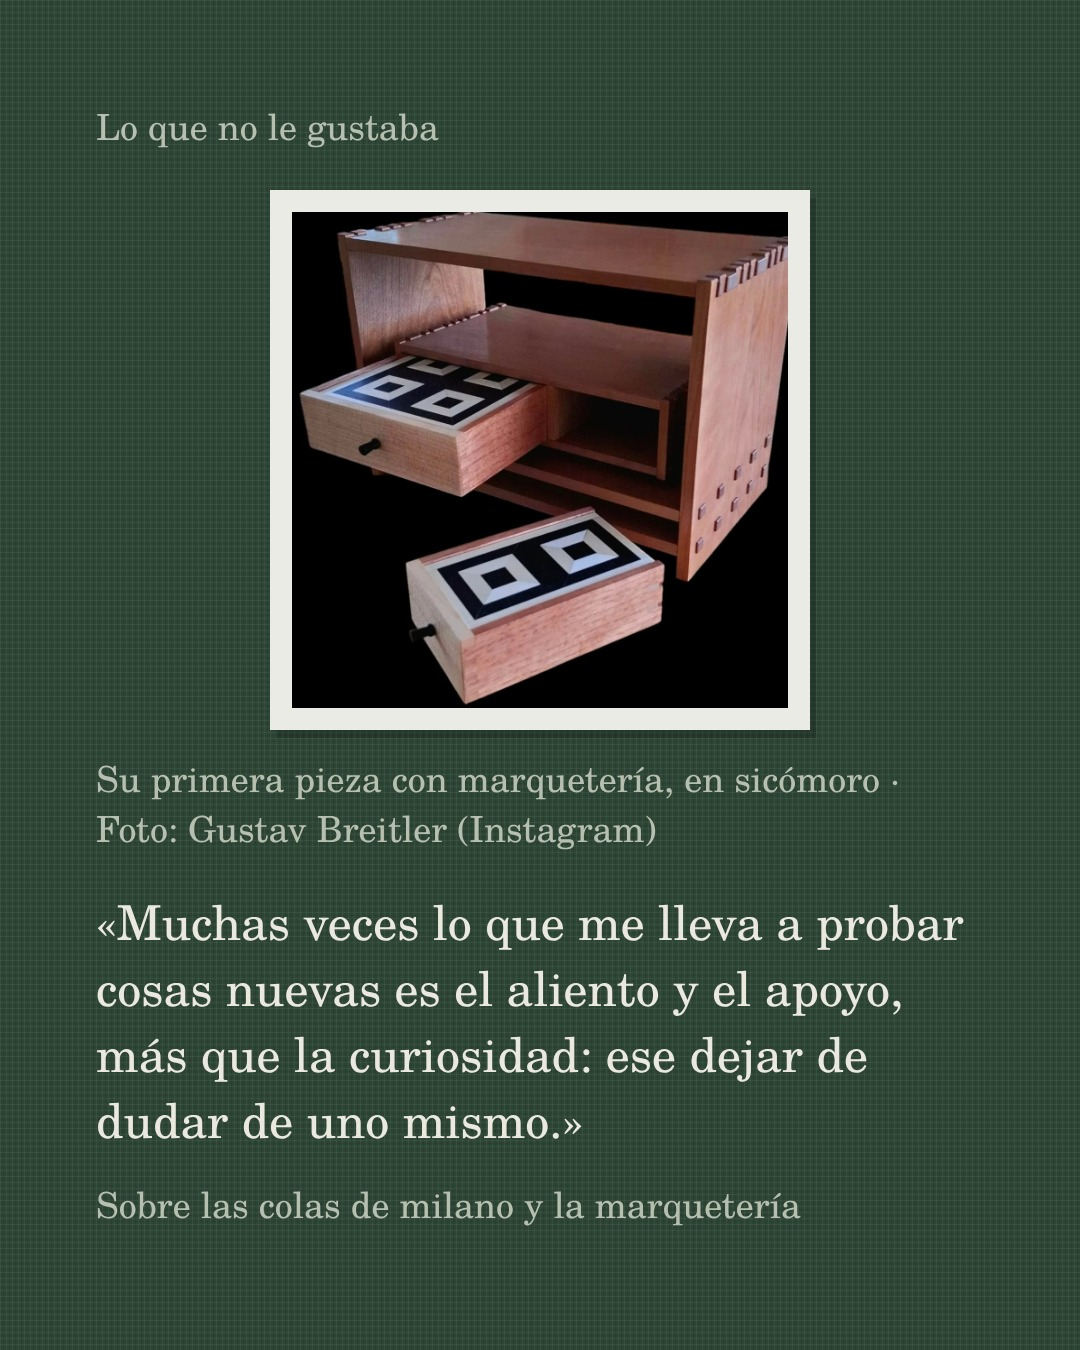
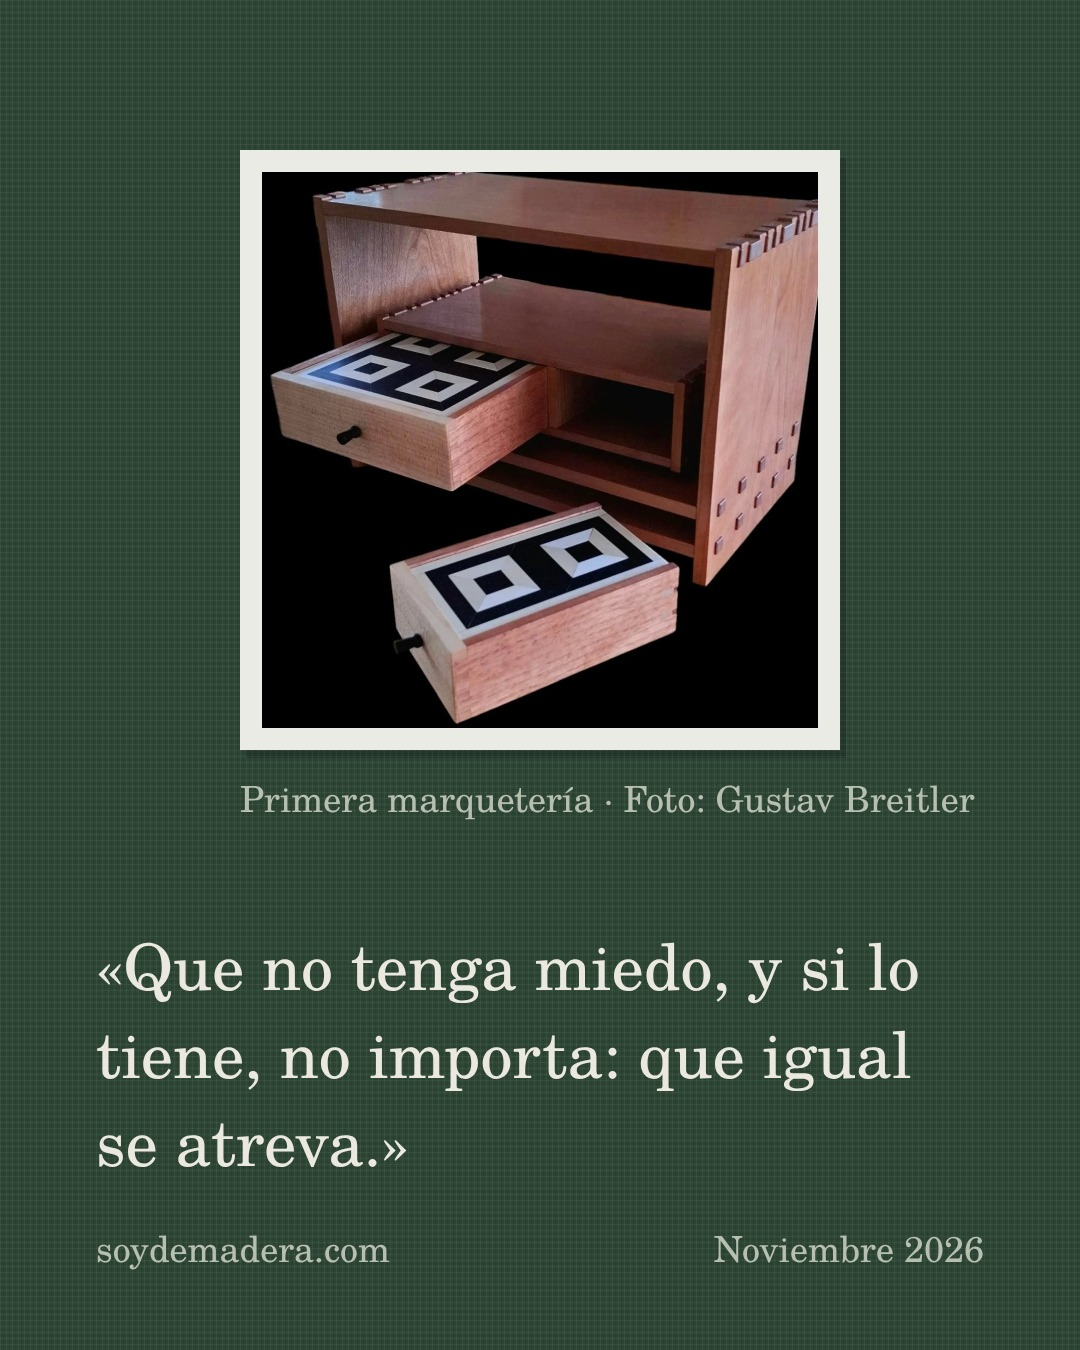
Carrusel de Gustav: textos breves (una cita corta por lámina) y cierre simple
Claude-Session: https://claude.ai/code/session_012RZ1FT6M2ATF6VWer3zUHn

Changed region(s): [[0.0917, 0.0933, 0.8861, 0.6222], [0.0917, 0.6533, 0.9167, 0.9333], [0.0917, 0.0933, 0.1833, 0.1244]]

diff --git a/carrusel-gustav/index.html b/carrusel-gustav/index.html
@@ -25,38 +25,37 @@ const laminas = [
   // 1. Portada
   async c => { SDM.fondo(c); SDM.cabecera(c, 'Maestros · Soy de Madera');
     const img = await SDM.cargarImagen('../img/gustav-breitler-cofre-obsesion.jpg');
-    SDM.lamina(c, img, 270, 200, 540, 540);
-    SDM.parrafo(c, 'Cofre para té «Obsesión» · Foto: Gustav Breitler (Instagram)', 270, 802, 540, 36, SUAVE);
-    SDM.texto(c, 'Gustav Breitler', M, 990, 104, HUESO);
-    SDM.texto(c, 'En el hacer viene el saber', M, 1070, 54, HUESO, 'italic');
+    SDM.lamina(c, img, 240, 190, 600, 600);
+    SDM.parrafo(c, 'Cofre «Obsesión» · Foto: Gustav Breitler', 240, 852, 744, 36, SUAVE);
+    SDM.texto(c, 'Gustav Breitler', M, 1040, 104, HUESO);
+    SDM.texto(c, 'En el hacer viene el saber', M, 1120, 54, HUESO, 'italic');
     SDM.pie(c, MES); },
-  // 2. Probar lo que no atrae
-  async c => { SDM.fondo(c); SDM.cabecera(c, 'Lo que no le gustaba');
+  // 2. Atreverse
+  async c => { SDM.fondo(c);
     const img = await SDM.cargarImagen('../img/gustav-breitler-cajonera-marqueteria.jpg');
-    SDM.lamina(c, img, 270, 190, 540, 540);
-    SDM.parrafo(c, 'Su primera pieza con marquetería, en sicómoro · Foto: Gustav Breitler (Instagram)', M, 792, W - 2 * M, 36, SUAVE);
-    const y = SDM.parrafo(c, '«Muchas veces lo que me lleva a probar cosas nuevas es el aliento y el apoyo, más que la curiosidad: ese dejar de dudar de uno mismo.»', M, 940, W - 2 * M, 48, HUESO);
-    SDM.texto(c, 'Sobre las colas de milano y la marquetería', M, y + 80, 36, SUAVE); },
-  // 3. Japón
-  async c => { SDM.fondo(c); SDM.cabecera(c, 'La tradición japonesa');
+    SDM.lamina(c, img, 240, 150, 600, 600);
+    SDM.parrafo(c, 'Primera marquetería · Foto: Gustav Breitler', 240, 812, 744, 36, SUAVE);
+    SDM.parrafo(c, '«Que no tenga miedo, y si lo tiene, no importa: que igual se atreva.»', M, 990, W - 2 * M, 64, HUESO);
+    SDM.pie(c, MES); },
+  // 3. Cada objeto
+  async c => { SDM.fondo(c);
     const img = await SDM.cargarImagen('../img/gustav-breitler-cajas-kasane-rindo.jpg');
-    SDM.lamina(c, img, 330, 180, 420, 525);
-    SDM.parrafo(c, 'Cajitas con el patrón «Kasane Rindo» · Cuadro de un video de Gustav Breitler (Instagram)', M, 767, W - 2 * M, 36, SUAVE);
-    const y = SDM.parrafo(c, '«Lo que más me aportó es la constancia y la serenidad que hay al trabajar de esa manera, en silencio y netamente con herramientas manuales.»', M, 915, W - 2 * M, 48, HUESO);
-    SDM.texto(c, 'Sobre el kumiko y los ensambles japoneses', M, y + 80, 36, SUAVE); },
-  // 4. Juego
-  async c => { SDM.fondo(c); SDM.cabecera(c, 'Objetos que invitan a jugar');
+    SDM.lamina(c, img, 300, 140, 480, 600);
+    SDM.parrafo(c, 'Cajitas «Kasane Rindo» · Cuadro de video: Gustav Breitler', 300, 802, 684, 36, SUAVE);
+    SDM.parrafo(c, '«Cada objeto es un ejercicio en sí.»', M, 1040, W - 2 * M, 64, HUESO);
+    SDM.pie(c, MES); },
+  // 4. Nadie es un genio
+  async c => { SDM.fondo(c);
     const img = await SDM.cargarImagen('../img/gustav-breitler-caja-piure.jpg');
-    SDM.lamina(c, img, 270, 190, 540, 540);
-    SDM.parrafo(c, 'Caja de corte «Piure», en cerezo, maple y cedro · Foto: Gustav Breitler (Instagram)', M, 792, W - 2 * M, 36, SUAVE);
-    const y = SDM.parrafo(c, '«Lo lúdico de los objetos lo plasmo, por ejemplo, al dejar los ensambles pasantes, que de primera impresión llaman a querer tocar el objeto.»', M, 940, W - 2 * M, 48, HUESO);
-    SDM.texto(c, 'Sobre la precisión y el juego', M, y + 80, 36, SUAVE); },
+    SDM.lamina(c, img, 240, 150, 600, 600);
+    SDM.parrafo(c, 'Caja de corte «Piure» · Foto: Gustav Breitler', 240, 812, 744, 36, SUAVE);
+    SDM.parrafo(c, '«En esto nadie, pero nadie, es un genio en sus comienzos.»', M, 990, W - 2 * M, 64, HUESO);
+    SDM.pie(c, MES); },
   // 5. Cierre
-  c => { SDM.fondo(c);
-    const y = SDM.parrafo(c, 'La entrevista completa, en la sección Maestros de soydemadera.com', M, 300, W - 2 * M, 64, HUESO);
-    c.fillStyle = 'rgba(183,191,176,.45)'; c.fillRect(M, y + 70, W - 2 * M, 2);
-    const y2 = SDM.parrafo(c, 'Cómo llegó al oficio después de la historia, el arte y un café; el kumiko a la usanza japonesa; el raulí y el roble pellín, y cómo organiza los cortes para que la madera se acomode en la pieza terminada.', M, y + 180, W - 2 * M, 46, HUESO);
-    SDM.texto(c, 'Instagram: @baobab_taller', M, y2 + 100, 38, SUAVE);
+  c => { SDM.fondo(c); SDM.cabecera(c, 'Maestros · Soy de Madera');
+    const y = SDM.parrafo(c, 'La entrevista completa a Gustav Breitler, en soydemadera.com', M, 520, W - 2 * M, 72, HUESO);
+    SDM.filete(c, y + 80);
+    SDM.texto(c, 'Su trabajo: @baobab_taller', M, y + 190, 44, SUAVE);
     SDM.pie(c, MES); },
 ];
 SDM.generar(laminas, 'gustav').catch(e => { document.getElementById('estado').textContent = 'Error: ' + e; });
